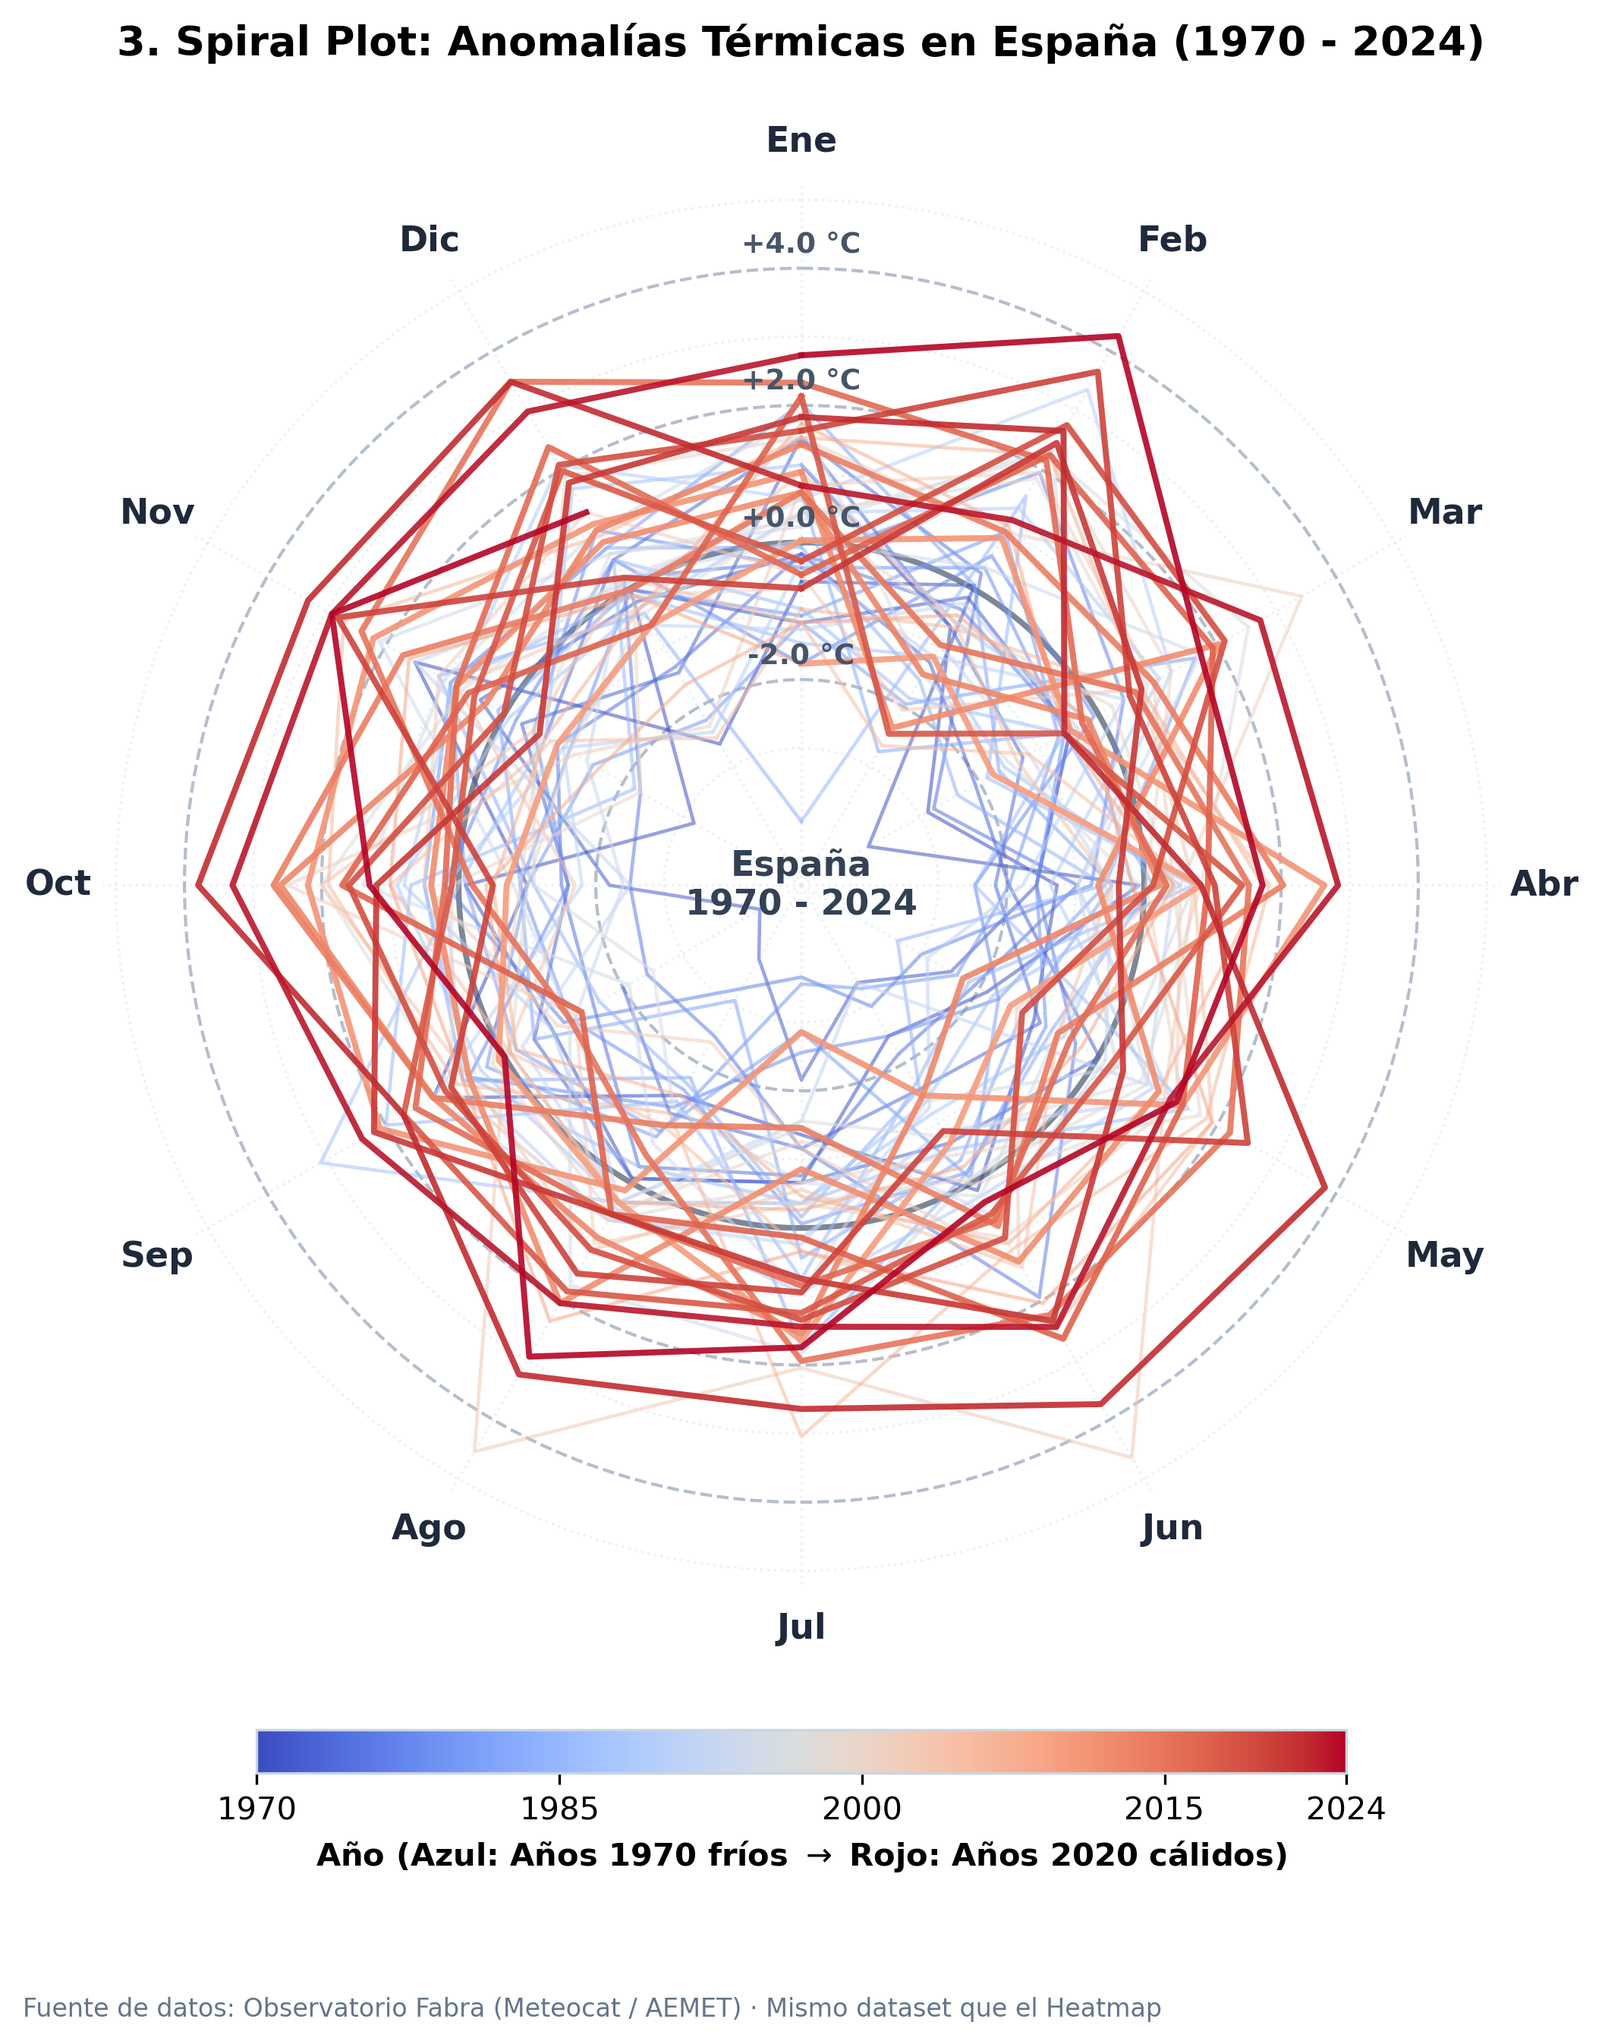
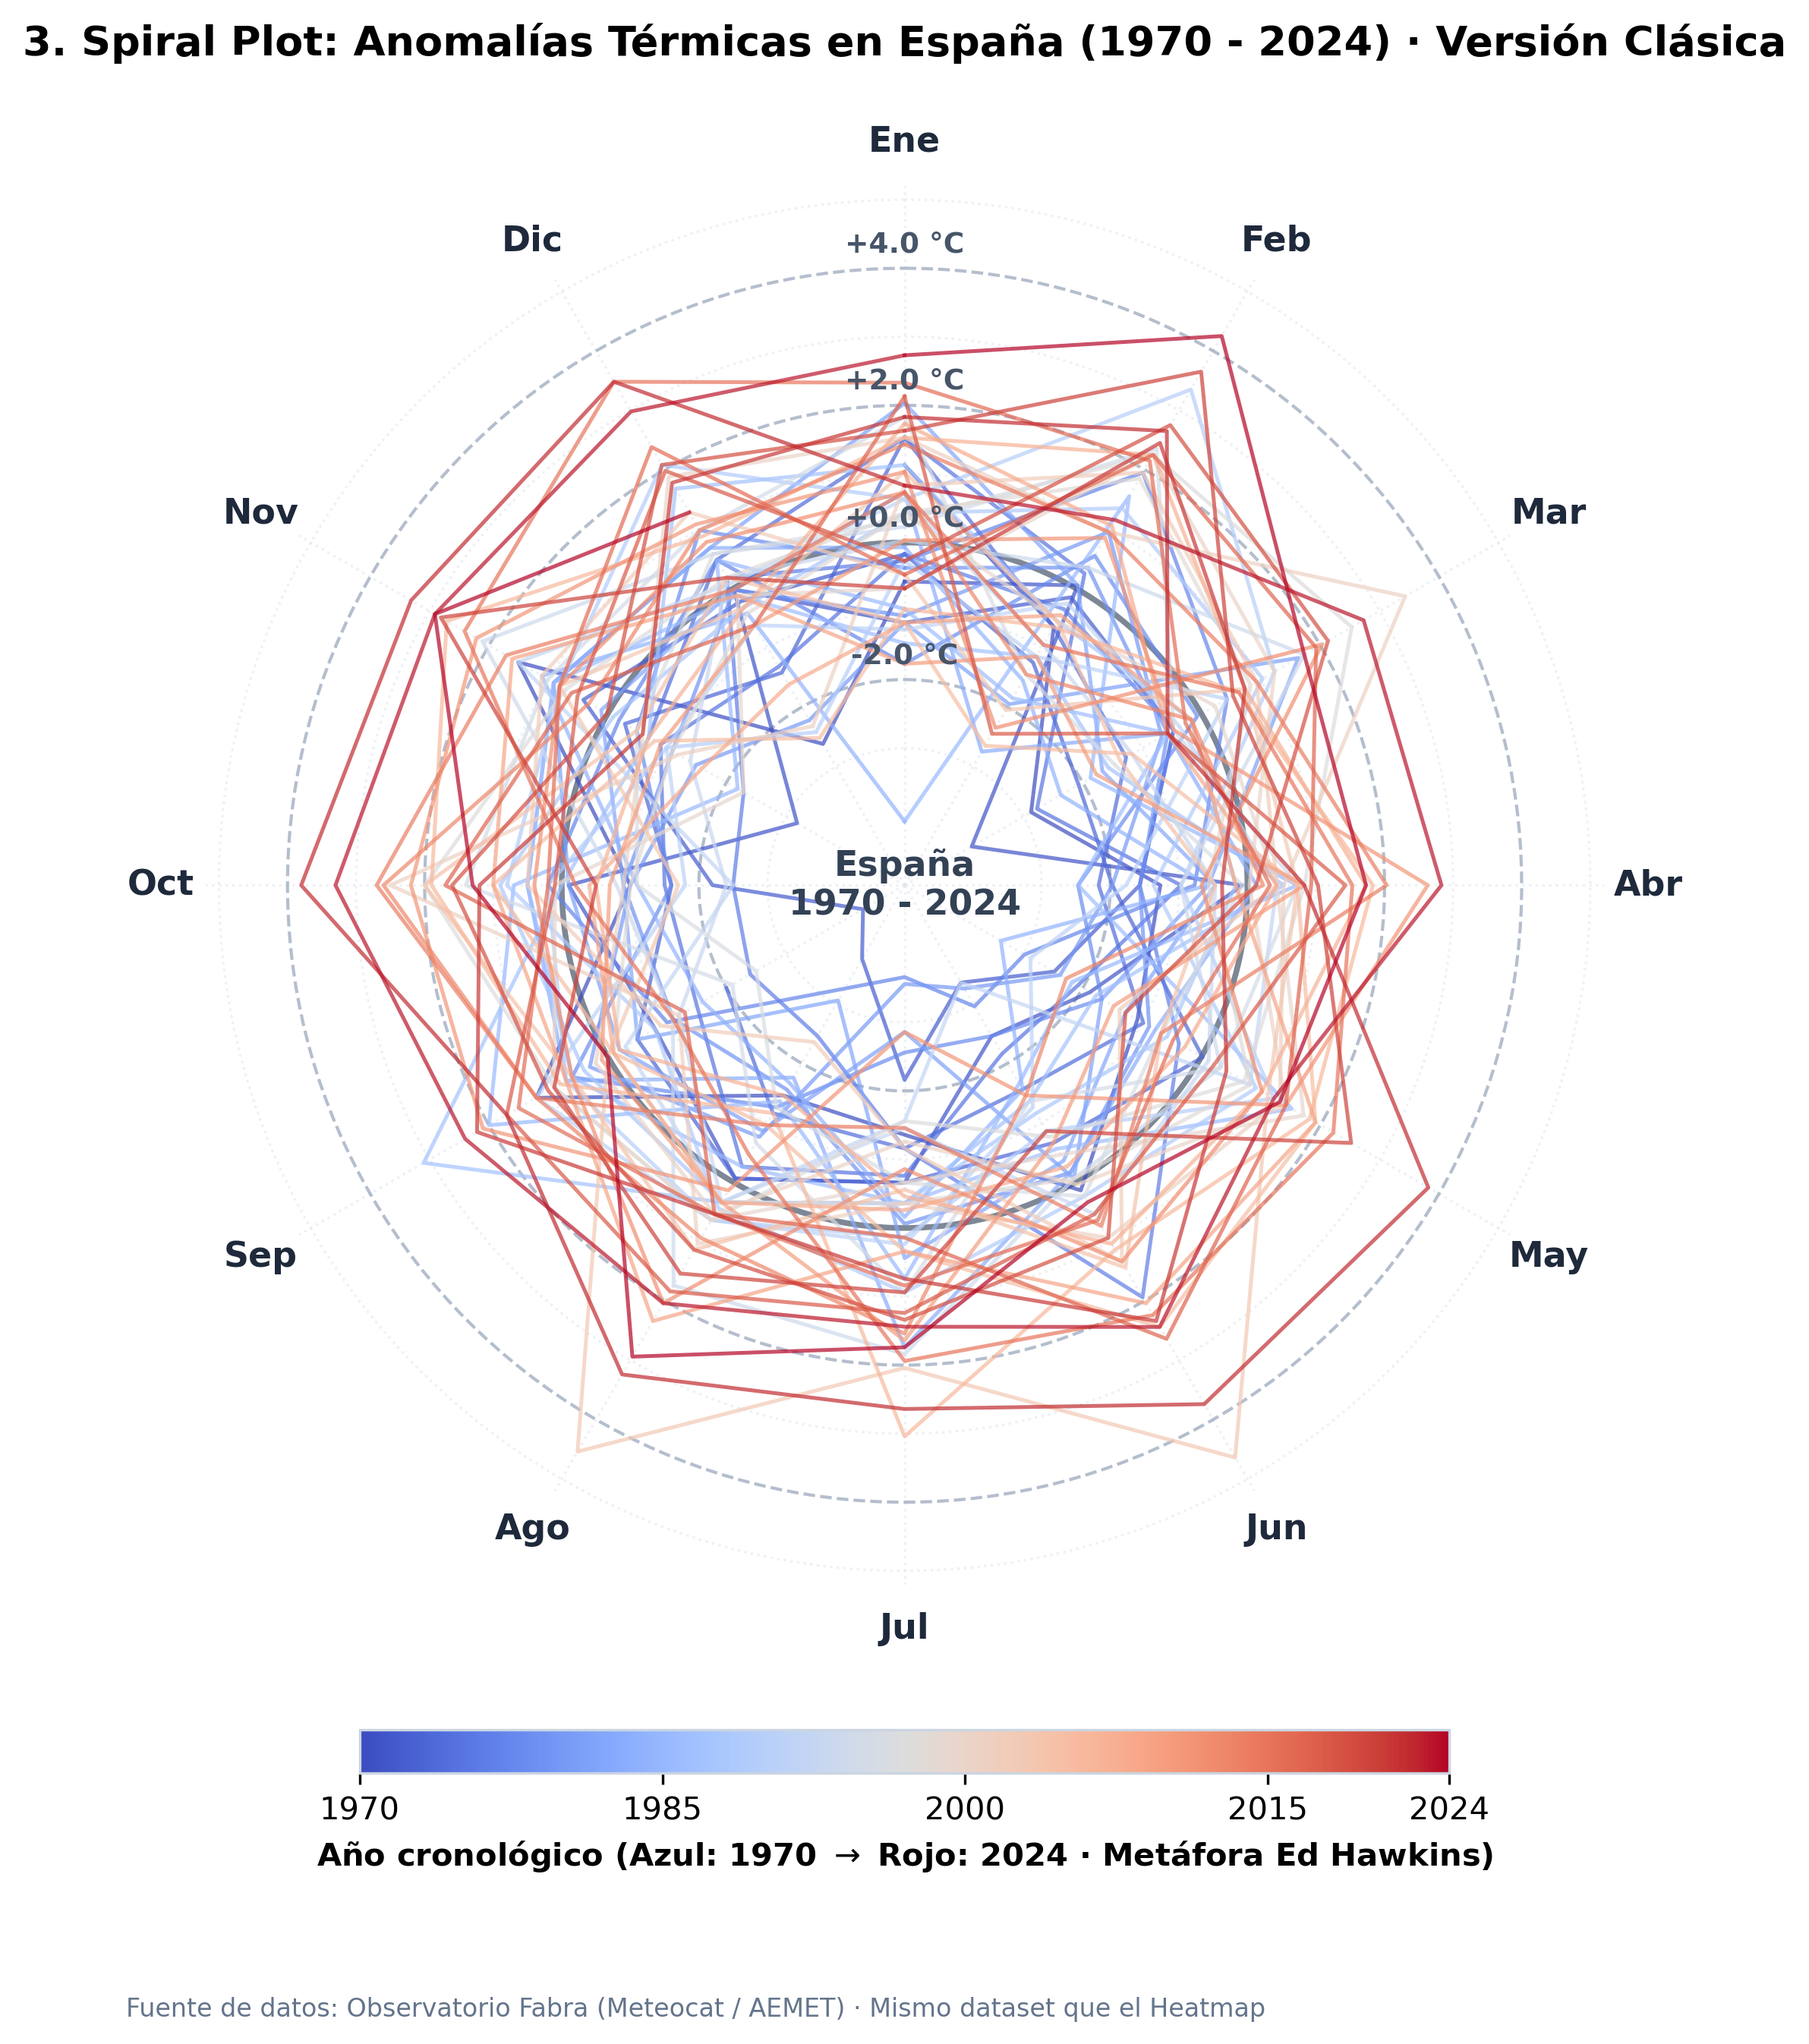
Add files via upload

diff --git a/index.html b/index.html
@@ -1,5 +1,6 @@
 <!DOCTYPE html>
 <html lang="es">
+
 <head>
   <meta charset="UTF-8">
   <meta name="viewport" content="width=device-width, initial-scale=1.0">
@@ -8,11 +9,14 @@
   <!-- Tipografía -->
   <link rel="preconnect" href="https://fonts.googleapis.com">
   <link rel="preconnect" href="https://fonts.gstatic.com" crossorigin>
-  <link href="https://fonts.googleapis.com/css2?family=Inter:wght@400;500;600;700&family=Outfit:wght@600;700&display=swap" rel="stylesheet">
+  <link
+    href="https://fonts.googleapis.com/css2?family=Inter:wght@400;500;600;700&family=Outfit:wght@600;700&display=swap"
+    rel="stylesheet">
 
   <!-- Hoja de estilos -->
   <link rel="stylesheet" href="css/styles.css">
 </head>
+
 <body>
 
   <!-- Cabecera fija con navegación directa -->
@@ -52,13 +56,16 @@
 
       <div class="viz-panel">
         <div class="chart-img-container">
-          <img src="grafico1_heatmap.png" alt="1. Heatmap: Anomalías Térmicas en España (1970 - 2024)" class="chart-img" width="950">
+          <img src="grafico1_heatmap.png" alt="1. Heatmap: Anomalías Térmicas en España (1970 - 2024)" class="chart-img"
+            width="950">
         </div>
 
         <!-- Fuente de datos y enlace oficial -->
         <div class="data-source-footer">
-          <span>Fuente de datos: <strong>Observatorio Fabra (Meteocat / AEMET) · Open Data BCN (datos.gob.es)</strong></span>
-          <a href="https://opendata-ajuntament.barcelona.cat/data/dataset/temperatures-hist-bcn" target="_blank" rel="noopener" class="source-link">Acceder al portal Open Data ↗</a>
+          <span>Fuente de datos: <strong>Observatorio Fabra (Meteocat / AEMET) · Open Data BCN
+              (datos.gob.es)</strong></span>
+          <a href="https://opendata-ajuntament.barcelona.cat/data/dataset/temperatures-hist-bcn" target="_blank"
+            rel="noopener" class="source-link">Acceder al portal Open Data ↗</a>
         </div>
       </div>
     </section>
@@ -73,13 +80,16 @@
 
       <div class="viz-panel">
         <div class="chart-img-container">
-          <img src="grafico2_raincloud.png" alt="2. Raincloud Plot: Esperanza de Vida por Continente (140 Países)" class="chart-img" width="950">
+          <img src="grafico2_raincloud.png" alt="2. Raincloud Plot: Esperanza de Vida por Continente" class="chart-img"
+            width="950">
         </div>
 
         <!-- Fuente de datos y enlace oficial -->
         <div class="data-source-footer">
-          <span>Fuente de datos: <strong>Fundación Gapminder / División de Población de la ONU</strong> (140 países)</span>
-          <a href="https://www.gapminder.org/data/" target="_blank" rel="noopener" class="source-link">Acceder al portal Gapminder ↗</a>
+          <span>Fuente de datos: <strong>Fundación Gapminder / División de Población de la ONU</strong> (140
+            países)</span>
+          <a href="https://www.gapminder.org/data/" target="_blank" rel="noopener" class="source-link">Acceder al portal
+            Gapminder ↗</a>
         </div>
       </div>
     </section>
@@ -90,17 +100,42 @@
     <section id="sec-spiral" class="viz-section">
       <div class="technique-header">
         <h2 class="technique-title">3. Spiral Plot: Anomalías Térmicas en España (1970 - 2024)</h2>
+        <p class="section-subtitle">Comparativa de paleta cromática según las directrices de <strong>Jonathan Schwabish
+            (2021)</strong>:</p>
       </div>
 
       <div class="viz-panel">
-        <div class="chart-img-container">
-          <img src="grafico3_spiral.png" alt="3. Spiral Plot: Anomalías Térmicas en España (1970 - 2024)" class="chart-img" width="850">
+        <div class="version-toggle-container">
+
+          <!-- 1. VERSIÓN NEUTRA (SCHWABISH) - ABIERTA POR DEFECTO -->
+          <details class="palette-accordion" name="spiral-palette" open>
+            <summary class="palette-summary">
+              <span class="summary-title">Versión Neutra</span>
+            </summary>
+            <div class="chart-img-container">
+              <img src="grafico3_spiral_neutral.png" alt="3. Spiral Plot: Versión Neutra" class="chart-img" width="850">
+            </div>
+          </details>
+
+          <!-- 2. VERSIÓN CLÁSICA (ED HAWKINS) - DESPLEGABLE -->
+          <details class="palette-accordion" name="spiral-palette">
+            <summary class="palette-summary">
+              <span class="summary-title">Versión Clásica (Modelo Ed Hawkins 2016 · Paleta Azul a Rojo)</span>
+            </summary>
+            <div class="chart-img-container">
+              <img src="grafico3_spiral.png" alt="3. Spiral Plot: Versión Clásica (Azul a Rojo) - Modelo Ed Hawkins"
+                class="chart-img" width="850">
+            </div>
+          </details>
+
         </div>
 
         <!-- Fuente de datos y enlace oficial -->
         <div class="data-source-footer">
-          <span>Fuente de datos: <strong>Observatorio Fabra (Meteocat / AEMET) · Open Data BCN (datos.gob.es)</strong> (Mismo dataset que el Heatmap)</span>
-          <a href="https://opendata-ajuntament.barcelona.cat/data/dataset/temperatures-hist-bcn" target="_blank" rel="noopener" class="source-link">Acceder al portal Open Data ↗</a>
+          <span>Fuente de datos: <strong>Observatorio Fabra (Meteocat / AEMET) · Open Data BCN (datos.gob.es)</strong>
+            (Mismo dataset que el Heatmap)</span>
+          <a href="https://opendata-ajuntament.barcelona.cat/data/dataset/temperatures-hist-bcn" target="_blank"
+            rel="noopener" class="source-link">Acceder al portal Open Data ↗</a>
         </div>
       </div>
     </section>
@@ -112,4 +147,5 @@
   </footer>
 
 </body>
+
 </html>
